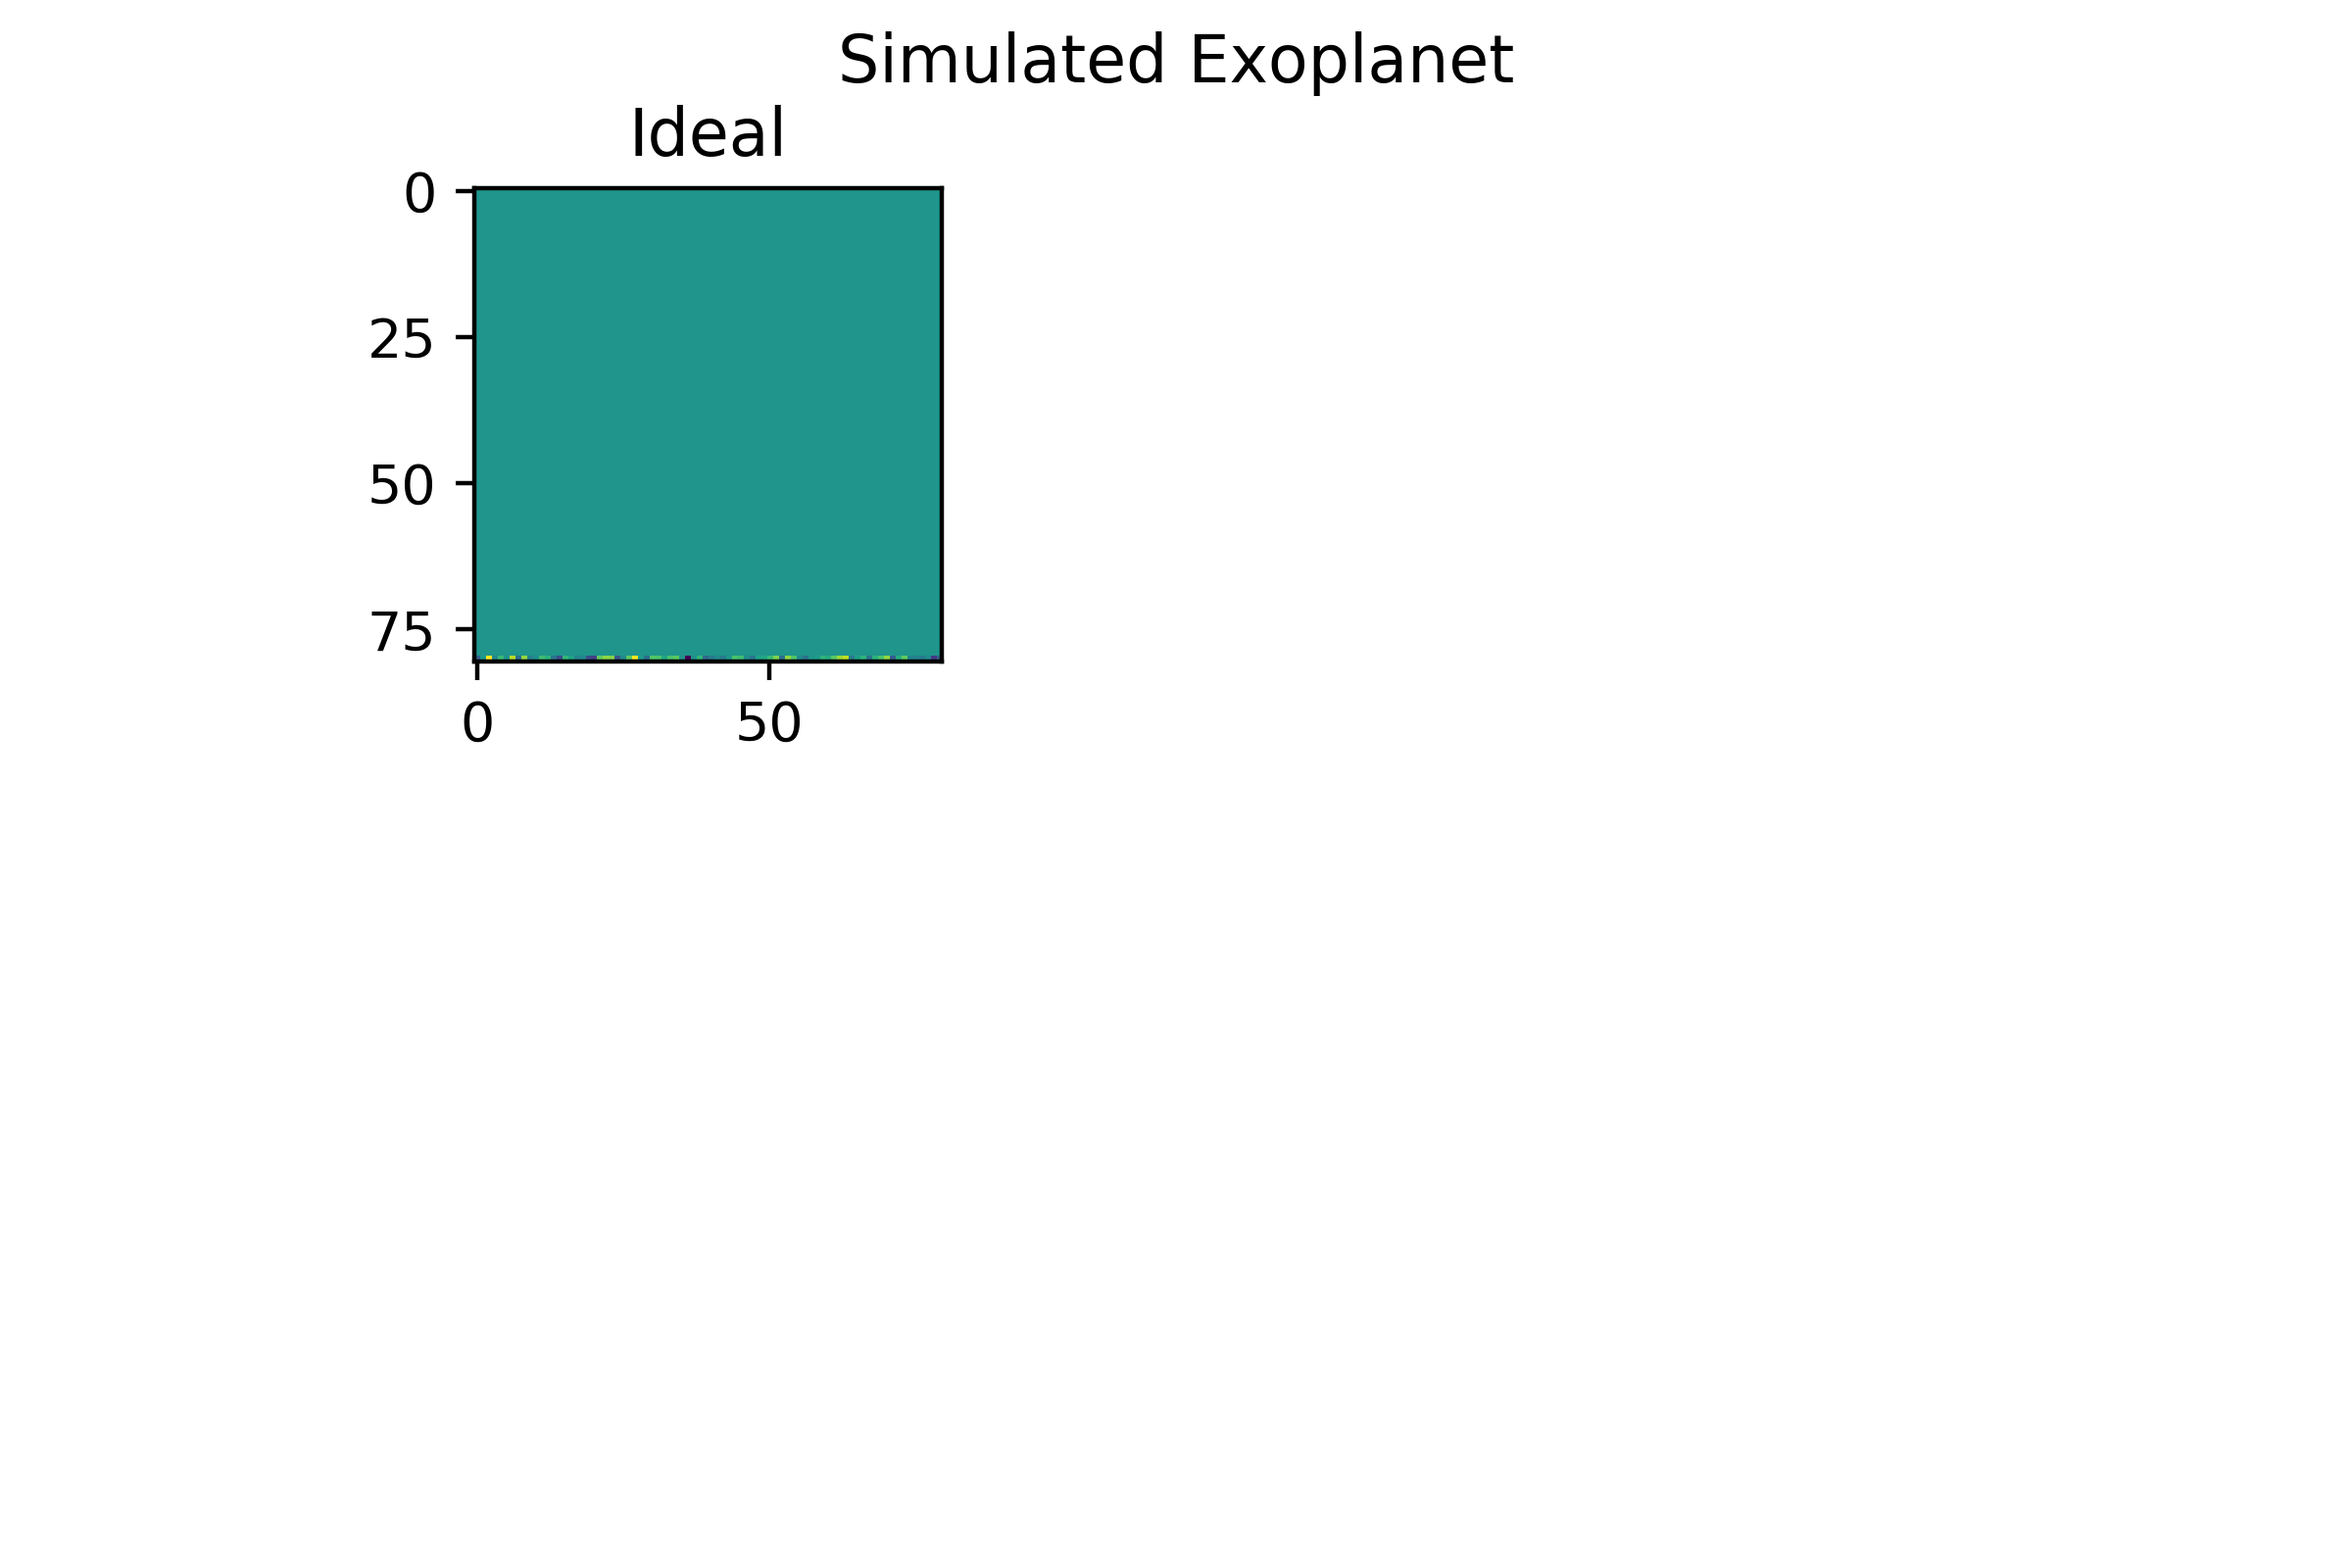
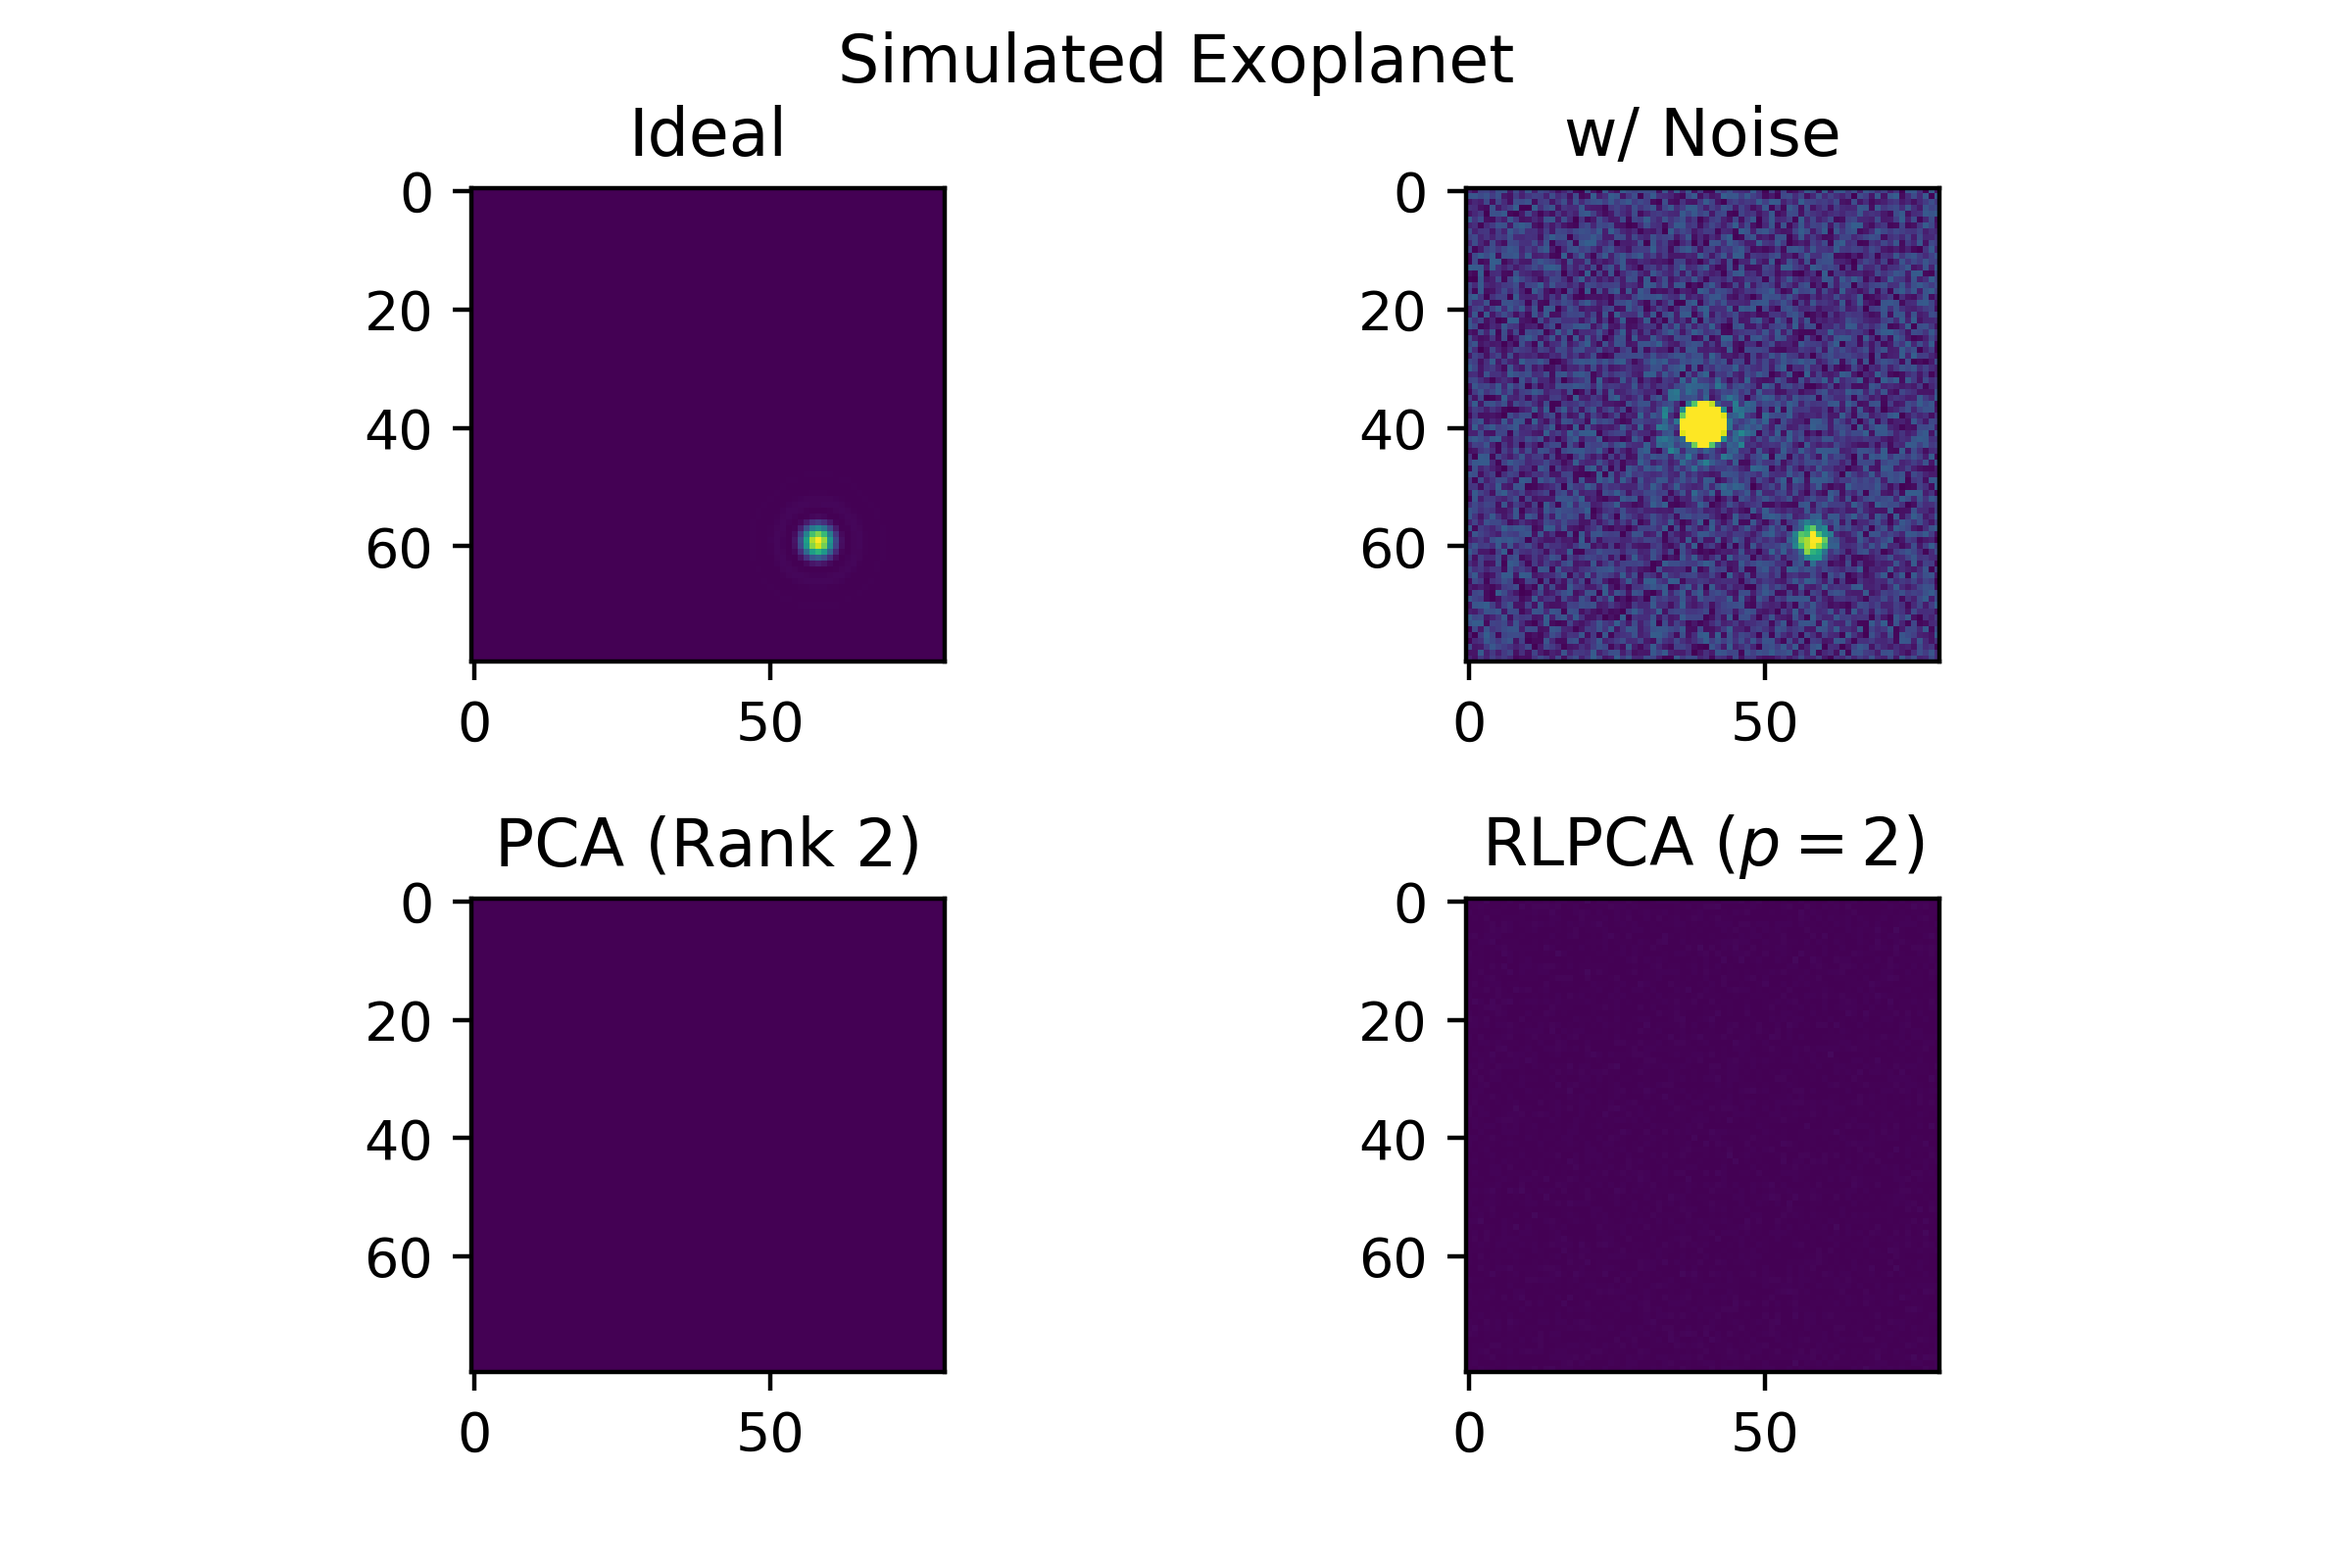
fully implemented new algorithm

diff --git a/reflesspca.py b/reflesspca.py
@@ -16,7 +16,7 @@ def airy(x, y, x_offset, y_offset, i0):
     r = np.sqrt((x+x_offset)**2+(y+y_offset)**2)
     return i0*(2*sp.special.j1(r)/r)**2
 
-frames = 10 #corresponds to t
+frames = 25 #corresponds to t
 boundary = 30 #resolution
 steps = 80 #corresponds to n
 
@@ -69,9 +69,6 @@ def cube2mat(A):
         A_mat.append(temp)
     A_mat = np.asarray(A_mat)  
     return A_mat
-    
-Y_ideal = cube2mat(cube_ideal)
-Y_real = cube2mat(cube_real)
 
 
 '''PCA'''
@@ -147,15 +144,13 @@ def RLPCA(Y, p):
             return Y - LRA(Y, 1)
         return Y - LRA(Y - S_r(rank-1), rank)
     return S_r(p)
-    
+
+#alternative calculation, yields different result ?!?!?
 def RLPCA2(Y, p):
     S = Y - LRA(Y, 1)
     for i in range(1, p+1):
         S = Y - LRA(S, i)
     return S
-
-S_pca = Y_real - LRA(Y_real, 2)
-S_p = RLPCA(Y_real, 3)
 
 
 '''reshape t x n^2 matrix back to time averaged n x n matrix, i. e. final processed frame'''
@@ -167,28 +162,39 @@ def mat2frame(A):
         for j in range(steps):
             temp.append(0)
         summed.append(temp)
-    
+    summed = np.asarray(summed)
     #create a n x n matrix out of every row in the t x n^2 matrix and sum it to matrix summed
     temp_row = []
     temp_matrix = []
     counter = 0
-    for row in S_pca:
+    for row in A:
         for i in row:
             temp_row.append(i)
             counter += 1
+            #print(temp_row)
             if counter == steps:
                 temp_matrix.append(temp_row)
                 temp_row = []
-        summed += temp_matrix
+                counter = 0
+        summed = np.add(summed, np.asarray(temp_matrix))
         temp_matrix = []
         
-    #build time average of every entry of summed to get final processed frame
-    for i in range(len(summed)):
-        for j in range(len(summed[0])):
-            summed[i][j] = 1/frames*summed[i][j]
-    processed_frame = summed
+    processed_frame = 1/frames*summed
     return processed_frame
-    
+
+
+'''algorithm process'''
+#reshape data cubes to matrices Y
+Y_ideal = cube2mat(cube_ideal)
+Y_real = cube2mat(cube_real)
+
+#apply algorithm to calculate S_p
+S_pca = Y_real - LRA(Y_real, 2)
+S_p = RLPCA2(Y_real, 2)
+
+print(S_pca)
+
+#reshape matrix to final time averaged frame
 processed_frame = mat2frame(S_p)
 
 
@@ -198,18 +204,18 @@ plt.subplots_adjust(hspace=0.5)
 
 plt.subplot(2, 2, 1)
 plt.title("Ideal")
-plt.imshow(processed_frame)
+plt.imshow(cube_ideal[0])
 
-#plt.subplot(2, 2, 2)
-#plt.title("w/ Noise")
-#plt.imshow(Y_real, vmin=0, vmax=1)
-#
-#plt.subplot(2, 2, 3)
-#plt.title("PCA (Rank 2)")
-#plt.imshow(S_pca, vmin=0, vmax=1)
-#
-#plt.subplot(2, 2, 4)
-#plt.title("RLPCA")
-#plt.imshow(S_p, vmin=0, vmax=1)
+plt.subplot(2, 2, 2)
+plt.title("w/ Noise")
+plt.imshow(cube_real[0], vmin=0, vmax=1)
+
+plt.subplot(2, 2, 3)
+plt.title("PCA (Rank 2)")
+plt.imshow(mat2frame(S_pca), vmin=0, vmax=1)
+
+plt.subplot(2, 2, 4)
+plt.title("RLPCA ($p=2$)")
+plt.imshow(processed_frame, vmin=0, vmax=1)
 
 plt.savefig("fig.png", dpi=400)
